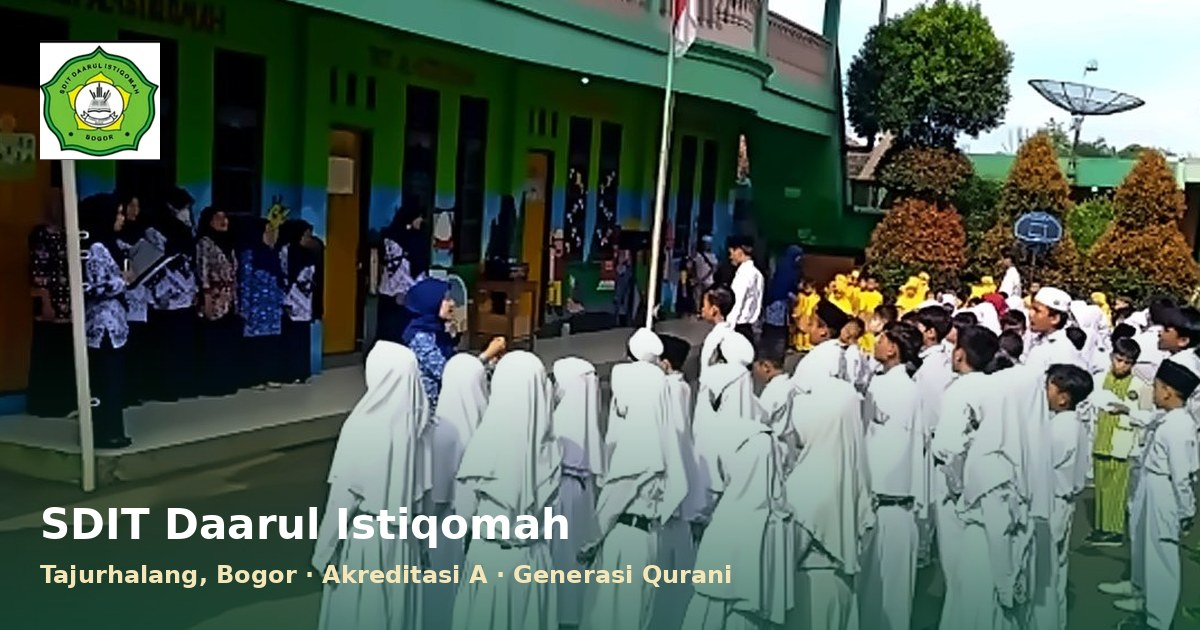
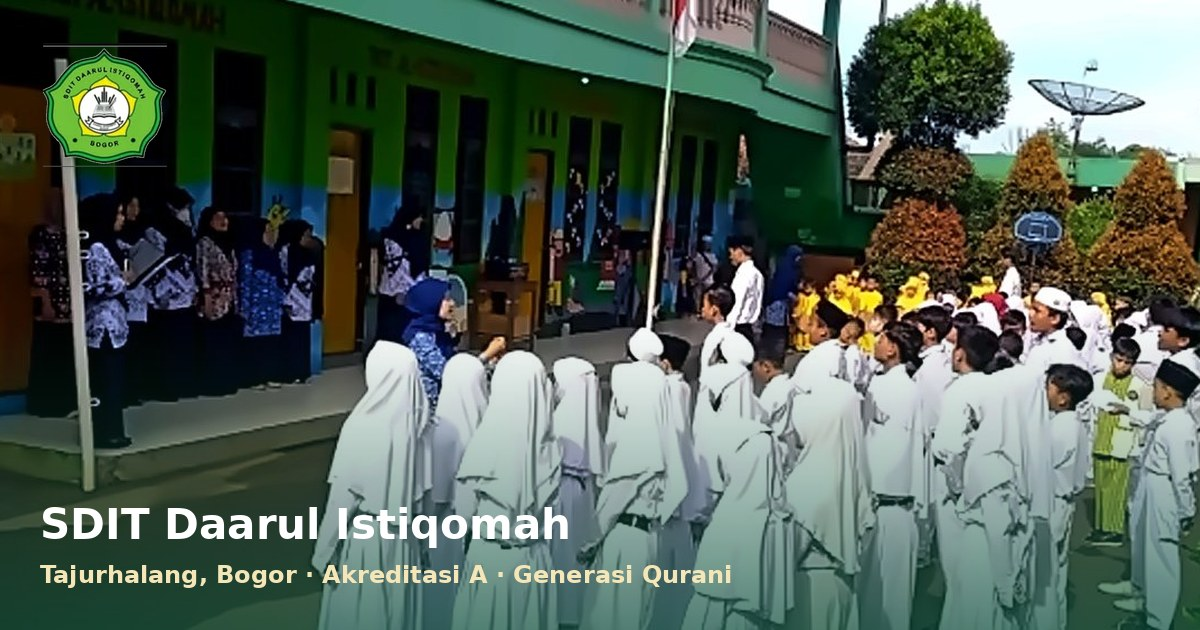
Add files via upload

Changed region(s): [[0.0308, 0.0603, 0.1542, 0.2714]]

diff --git a/index.html b/index.html
@@ -29,7 +29,7 @@
   <meta name="twitter:description" content="SD Islam Terpadu, Akreditasi A, Tajurhalang Bogor. PPDB online.">
   <meta name="twitter:image" content="https://sditdaarulistiqomah.sch.id/images/og-cover.jpg">
 
-  <link rel="icon" href="images/logo.jpg" type="image/jpeg">
+  <link rel="icon" href="images/logo.png" type="image/jpeg">
   <link rel="apple-touch-icon" href="images/logo.png">
   <link rel="stylesheet" href="css/style.css">
   <link rel="stylesheet" href="css/lock.css">
@@ -43,7 +43,7 @@
   <header class="site-header">
     <div class="container nav-wrap">
       <a class="brand" href="#beranda">
-        <img class="brand-logo-img" src="images/logo.jpg" alt="Logo SDIT Daarul Istiqomah" width="44" height="44">
+        <img class="brand-logo-img" src="images/logo.png" alt="Logo SDIT Daarul Istiqomah" width="44" height="44">
         <div class="brand-text">
           <strong id="schoolName">SDIT Daarul Istiqomah</strong>
           <span>Tajurhalang · Bogor</span>

diff --git a/admin/index.html b/admin/index.html
@@ -5,7 +5,7 @@
   <meta name="viewport" content="width=device-width, initial-scale=1.0">
   <title>Admin — SDIT Daarul Istiqomah</title>
   <meta name="theme-color" content="#0B6E4F">
-  <link rel="icon" href="../images/logo.jpg" type="image/jpeg">
+  <link rel="icon" href="../images/logo.png" type="image/jpeg">
   <link rel="stylesheet" href="../css/style.css">
   <style>
     body { background: #eef5f1; }
